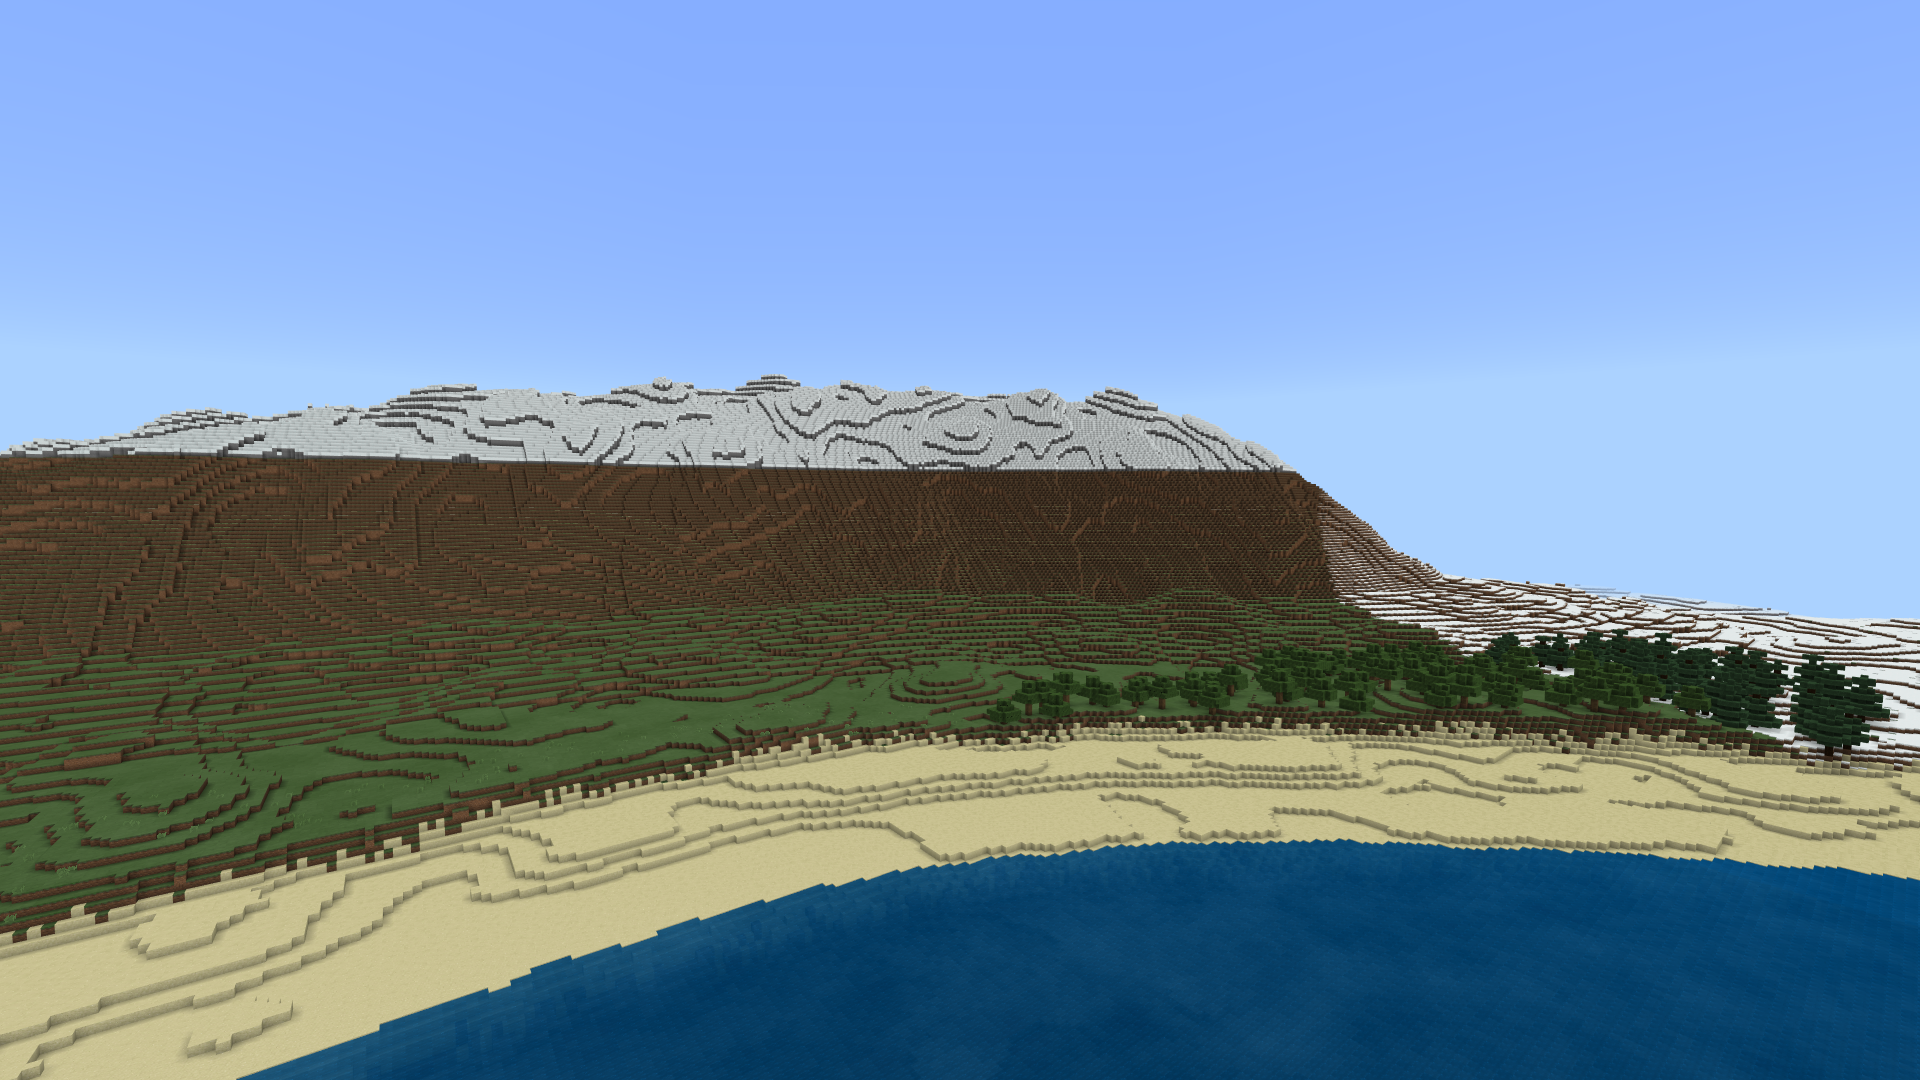
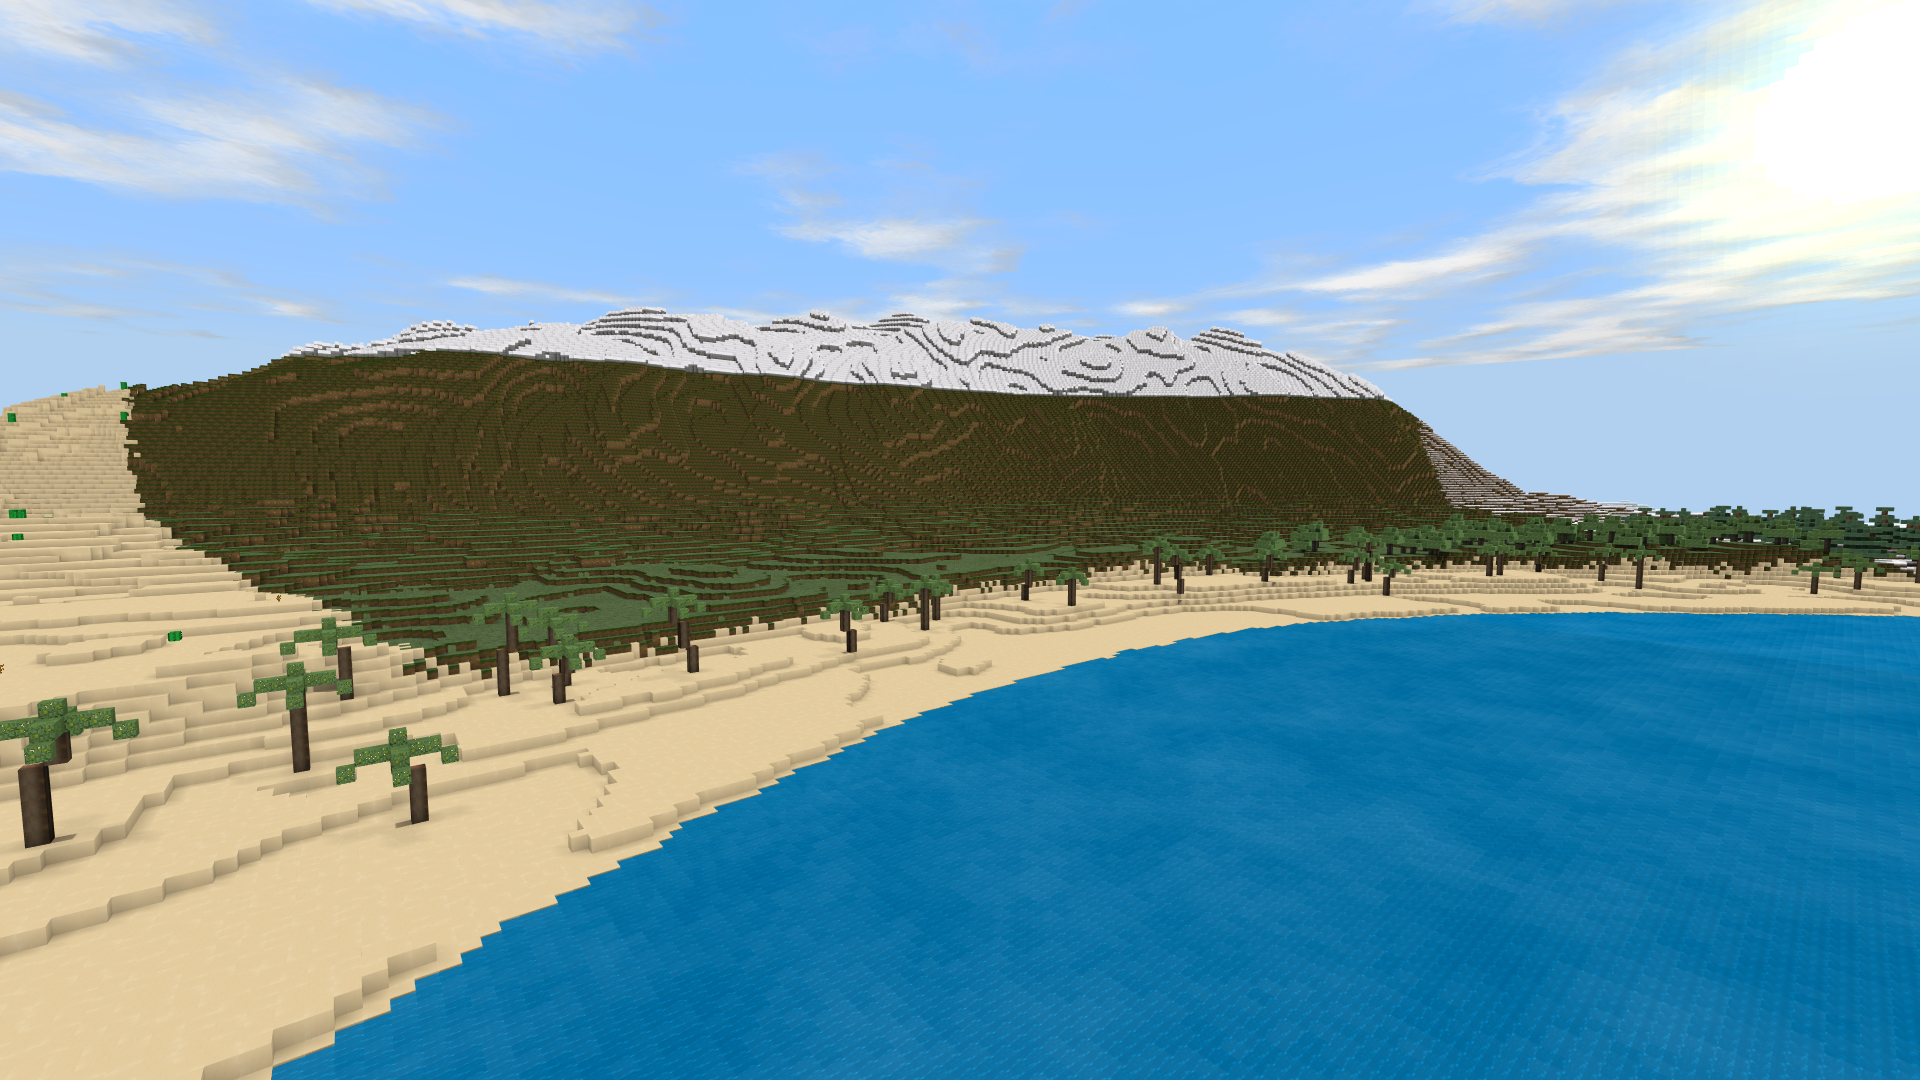
added palmtrees

diff --git a/src/AndreasHGK/PocketIslands/object/PalmTree.php b/src/AndreasHGK/PocketIslands/object/PalmTree.php
@@ -7,47 +7,74 @@ namespace AndreasHGK\PocketIslands\object;
 use pocketmine\block\Block;
 use pocketmine\block\BlockFactory;
 use pocketmine\block\Wood;
+use pocketmine\block\Leaves;
 use pocketmine\level\ChunkManager;
+use pocketmine\level\SimpleChunkManager;
 use pocketmine\utils\Random;
 use pocketmine\level\generator\object\Tree;
 
-class PalmTree extends Tree{
+class PalmTree{
 
-    public function __construct(){
-        parent::__construct(BlockFactory::get(Block::LOG, Wood::JUNGLE), BlockFactory::get(Block::LEAVES, Wood::JUNGLE), 10);
-    }
-
-    public function placeObject(ChunkManager $level, int $x, int $y, int $z, Random $random) : void{
-        $this->treeHeight = $random->nextBoundedInt(4) + 6;
-        $topSize = $this->treeHeight - (1 + $random->nextBoundedInt(2));
-        $lRadius = 2 + $random->nextBoundedInt(2);
-        $this->placeTrunk($level, $x, $y, $z, $random, $this->treeHeight - $random->nextBoundedInt(3));
-        $radius = $random->nextBoundedInt(2);
-        $maxR = 1;
-        $minR = 0;
-        for($yy = 0; $yy <= $topSize; ++$yy){
-            $yyy = $y + $this->treeHeight - $yy;
-            for($xx = $x - $radius; $xx <= $x + $radius; ++$xx){
-                $xOff = abs($xx - $x);
-                for($zz = $z - $radius; $zz <= $z + $radius; ++$zz){
-                    $zOff = abs($zz - $z);
-                    if($xOff === $radius and $zOff === $radius and $radius > 0){
-                        continue;
-                    }
-                    if(!$level->getBlockAt($xx, $yyy, $zz)->isSolid()){
-                        $level->setBlockAt($xx, $yyy, $zz, $this->leafBlock);
-                    }
+    public static function placeObject(ChunkManager $level, int $x, int $y, int $z, Random $random) : void{
+        $trunkheight = $random->nextRange(5, 9);
+        $offset = 0;
+        $offsetq = 0;
+        $offsetdirection = $random->nextRange(1, 4);
+        $ox = 0;
+        $oz = 0;
+        for($t = 0; $t < $trunkheight; ++$t){
+            if($random->nextRange(0, $offsetq) > 2){
+                ++$offset;
+                $offsetq = 0;
+                switch ($offsetdirection){
+                    case 1:
+                        $ox = $offset;
+                        $oz = 0;
+                        break;
+                    case 2:
+                        $ox = 0;
+                        $oz = $offset;
+                        break;
+                    case 3:
+                        $ox = -$offset;
+                        $oz = 0;
+                        break;
+                    case 4:
+                        $ox = 0;
+                        $oz = -$offset;
+                        break;
                 }
             }
-            if($radius >= $maxR){
-                $radius = $minR;
-                $minR = 1;
-                if(++$maxR > $lRadius){
-                    $maxR = $lRadius;
-                }
-            }else{
-                ++$radius;
-            }
+            $level->setBlockIdAt($x+$ox, $y+$t, $z+$oz, Block::LOG);
+            $level->setBlockDataAt($x+$ox, $y+$t, $z+$oz, Wood::JUNGLE);
+            $offsetq++;
         }
+        $level->setBlockIdAt($x+$ox, $y+$t+1, $z+$oz, Block::LEAVES);
+        $level->setBlockIdAt($x+$ox-1, $y+$t, $z+$oz, Block::LEAVES);
+        $level->setBlockIdAt($x+$ox+1, $y+$t, $z+$oz, Block::LEAVES);
+        $level->setBlockIdAt($x+$ox, $y+$t, $z+$oz+1, Block::LEAVES);
+        $level->setBlockIdAt($x+$ox, $y+$t, $z+$oz-1, Block::LEAVES);
+        $level->setBlockIdAt($x+$ox, $y+$t, $z+$oz+2, Block::LEAVES);
+        $level->setBlockIdAt($x+$ox, $y+$t, $z+$oz-2, Block::LEAVES);
+        $level->setBlockIdAt($x+$ox+2, $y+$t, $z+$oz, Block::LEAVES);
+        $level->setBlockIdAt($x+$ox-2, $y+$t, $z+$oz, Block::LEAVES);
+        $level->setBlockIdAt($x+$ox-3, $y+$t-1, $z+$oz, Block::LEAVES);
+        $level->setBlockIdAt($x+$ox+3, $y+$t-1, $z+$oz, Block::LEAVES);
+        $level->setBlockIdAt($x+$ox, $y+$t-1, $z+$oz+3, Block::LEAVES);
+        $level->setBlockIdAt($x+$ox, $y+$t-1, $z+$oz-3, Block::LEAVES);
+
+        $level->setBlockDataAt($x+$ox, $y+$t+1, $z+$oz, Leaves::JUNGLE);
+        $level->setBlockDataAt($x+$ox-1, $y+$t, $z+$oz, Leaves::JUNGLE);
+        $level->setBlockDataAt($x+$ox+1, $y+$t, $z+$oz, Leaves::JUNGLE);
+        $level->setBlockDataAt($x+$ox, $y+$t, $z+$oz+1, Leaves::JUNGLE);
+        $level->setBlockDataAt($x+$ox, $y+$t, $z+$oz-1, Leaves::JUNGLE);
+        $level->setBlockDataAt($x+$ox, $y+$t, $z+$oz+2, Leaves::JUNGLE);
+        $level->setBlockDataAt($x+$ox, $y+$t, $z+$oz-2, Leaves::JUNGLE);
+        $level->setBlockDataAt($x+$ox+2, $y+$t, $z+$oz, Leaves::JUNGLE);
+        $level->setBlockDataAt($x+$ox-2, $y+$t, $z+$oz, Leaves::JUNGLE);
+        $level->setBlockDataAt($x+$ox-3, $y+$t-1, $z+$oz, Leaves::JUNGLE);
+        $level->setBlockDataAt($x+$ox+3, $y+$t-1, $z+$oz, Leaves::JUNGLE);
+        $level->setBlockDataAt($x+$ox, $y+$t-1, $z+$oz+3, Leaves::JUNGLE);
+        $level->setBlockDataAt($x+$ox, $y+$t-1, $z+$oz-3, Leaves::JUNGLE);
     }
 }

diff --git a/src/AndreasHGK/PocketIslands/populator/PalmTree.php b/src/AndreasHGK/PocketIslands/populator/PalmTree.php
@@ -5,9 +5,8 @@ declare(strict_types=1);
 namespace AndreasHGK\PocketIslands\populator;
 
 use pocketmine\block\Block;
-use pocketmine\block\utils\WoodType;
 use pocketmine\level\ChunkManager;
-use pocketmine\level\generator\object\Tree as ObjectTree;
+use AndreasHGK\PocketIslands\object\PalmTree as ObjectPalm;
 use pocketmine\utils\Random;
 use pocketmine\level\generator\populator\Populator;
 
@@ -16,10 +15,7 @@ class PalmTree extends Populator{
     private $level;
     private $randomAmount;
     private $baseAmount;
-    private $type;
-    public function __construct(int $type = WoodType::JUNGLE){
-        $this->type = $type;
-    }
+
     public function setRandomAmount(int $amount) : void{
         $this->randomAmount = $amount;
     }
@@ -36,13 +32,13 @@ class PalmTree extends Populator{
             if($y === -1){
                 continue;
             }
-            ObjectTree::growTree($this->level, $x, $y, $z, $random, $this->type);
+            ObjectPalm::placeObject($this->level, $x, $y, $z, $random);
         }
     }
     private function getHighestWorkableBlock(int $x, int $z) : int{
         for($y = 127; $y > 0; --$y){
-            $b = $this->level->getBlockAt($x, $y, $z)->getId();
-            if($b === Block::DIRT or $b === Block::GRASS){
+            $b = $this->level->getBlockIdAt($x, $y, $z);
+            if($b === Block::SAND){
                 break;
             }elseif($b !== Block::AIR and $b !== Block::SNOW_LAYER){
                 return -1;

diff --git a/src/AndreasHGK/PocketIslands/biome/PalmBeach.php b/src/AndreasHGK/PocketIslands/biome/PalmBeach.php
@@ -8,6 +8,7 @@ use pocketmine\block\Block;
 use pocketmine\block\BlockFactory;
 use pocketmine\level\biome\Biome;
 use AndreasHGK\PocketIslands\Main;
+use AndreasHGK\PocketIslands\populator\PalmTree;
 use pocketmine\level\biome\SandyBiome;
 
 class PalmBeach extends Biome{
@@ -20,6 +21,10 @@ class PalmBeach extends Biome{
             BlockFactory::get(Block::SAND)
         ]);
         $this->setElevation(64, 69);
+        $pt = new PalmTree();
+        $pt->setBaseAmount(0);
+        $pt->setRandomAmount(1);
+        $this->addPopulator($pt);
         //todo: add palmtree populator
     }
     public function getName() : string

diff --git a/README.md b/README.md
@@ -8,7 +8,6 @@ Set the generator to *islands*. the rest is optional. Alternatively you can use 
 **[!] Multiworld has been tested and is not compatible with this plugin**
 
 ## Features
-Things i have or haven't done yet:
  
  [✔] Custom generator
  
@@ -18,10 +17,10 @@ Things i have or haven't done yet:
  
  [✔] Better mountains
  
- [✖] Palm trees and cactusses
+ [✔] Palm trees and cactusses
  
  [✖] Finishing off other biomes
  
- [✖] Structures
+ [✖] Small structures
  
-Feel free to help as well. I cannot really progress the plugin if i don't implement custom biomes. Sadly this is not yet possible.
+ [✖] Larger structures
